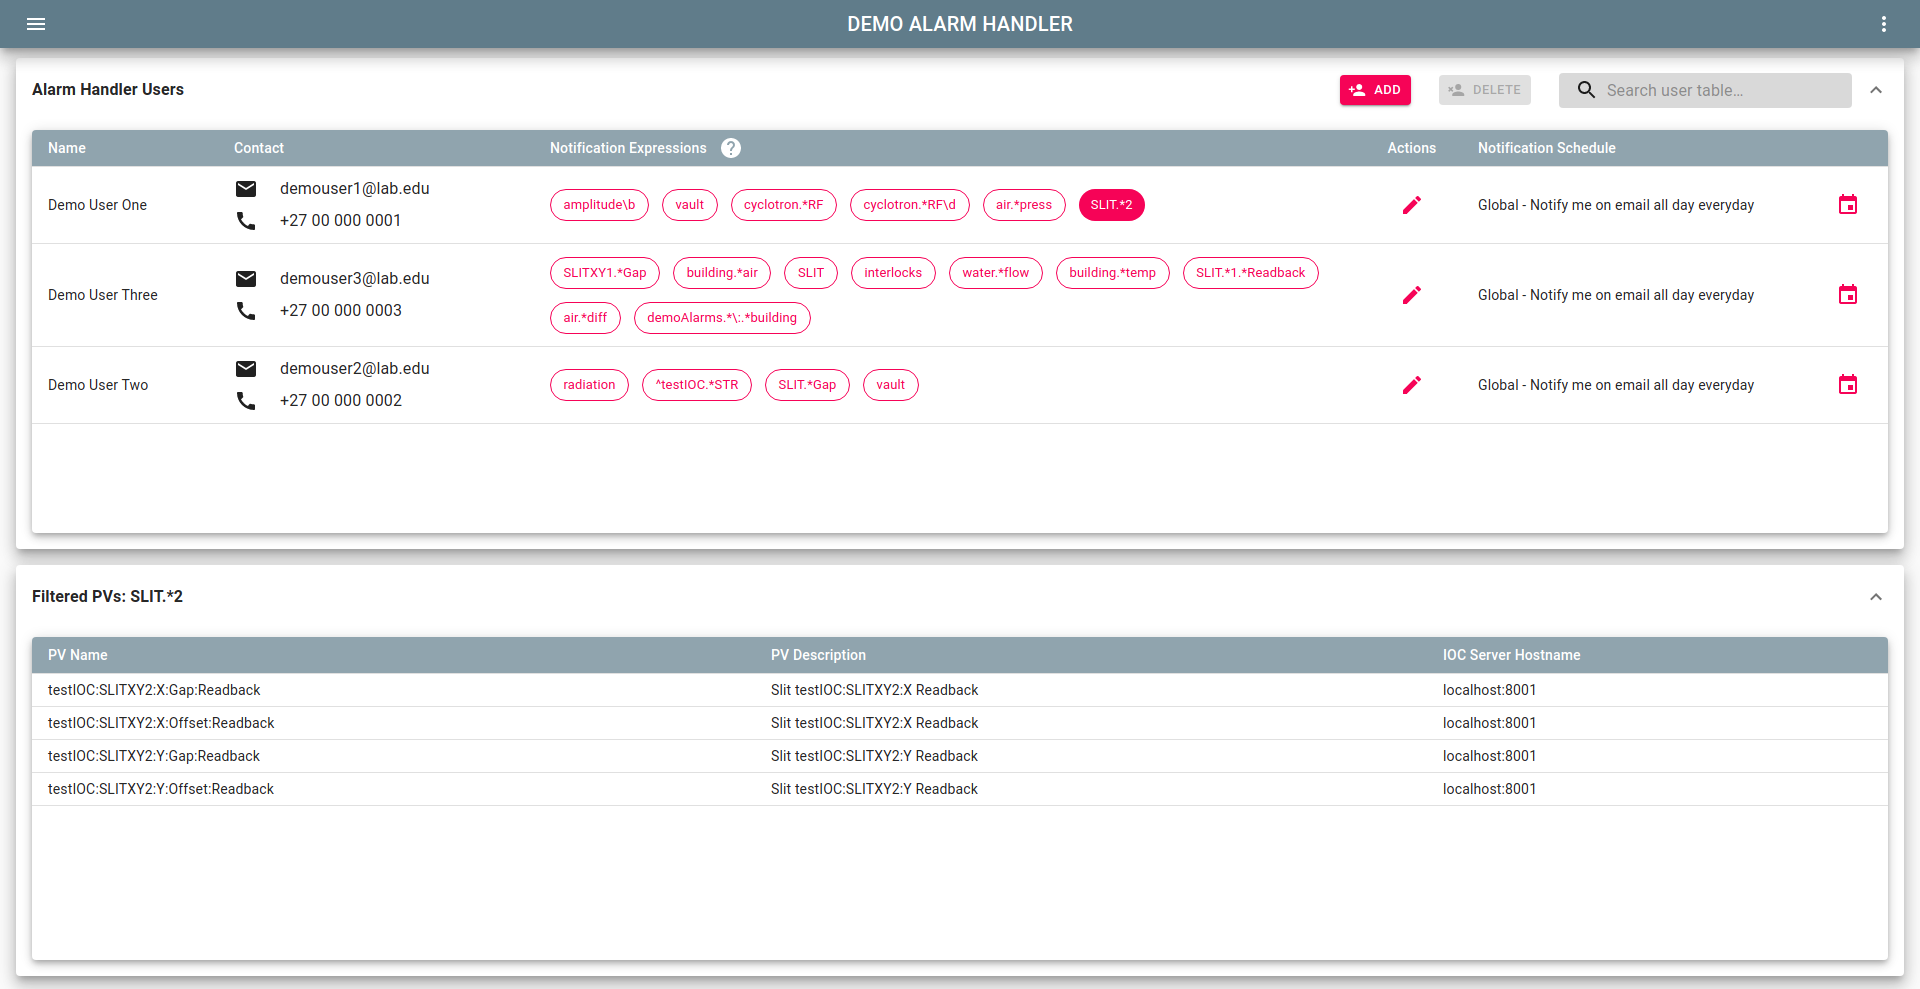
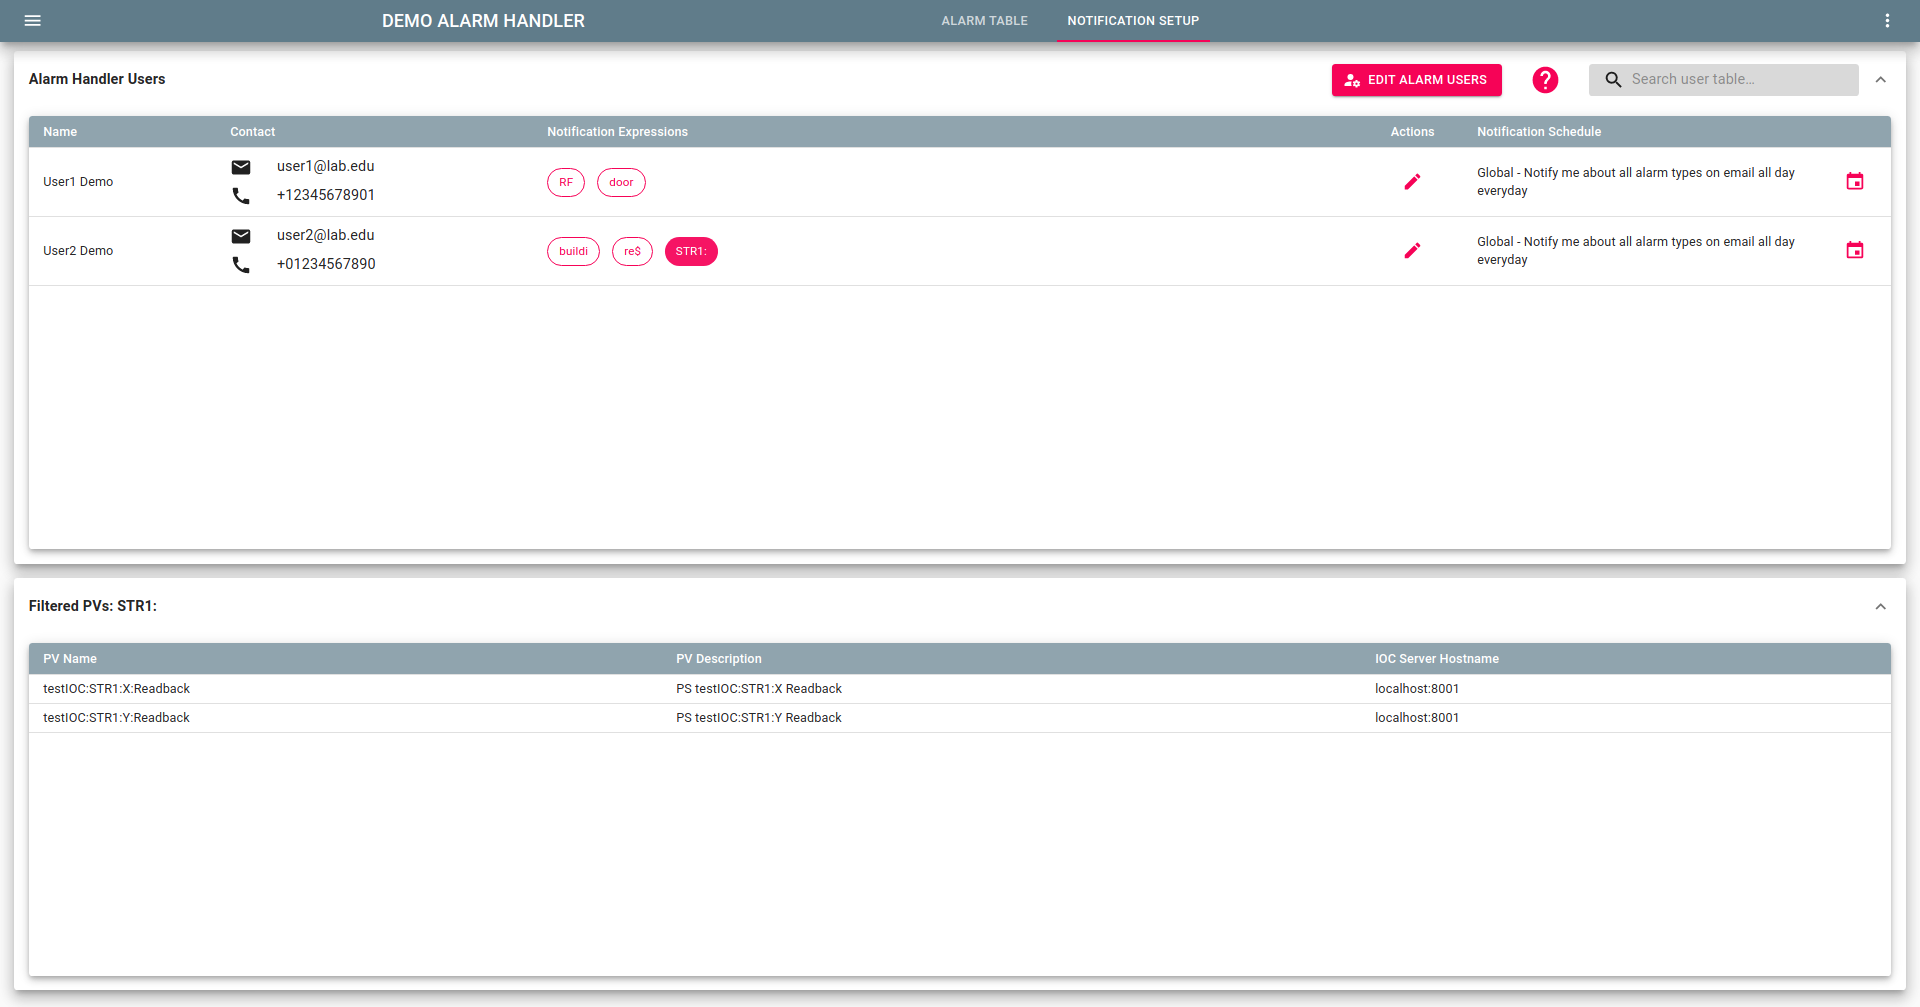
Updates to alarm handler documentation and main readme and intro sections

diff --git a/ReactApp/src/docs/alarmHandler/alarmUserTable.md b/ReactApp/src/docs/alarmHandler/alarmUserTable.md
@@ -7,14 +7,12 @@ The alarm handler users table lists all the users that can be configured to be n
 <br/>
 **Name**
 
-Name of the user - as configured in alarm handler MongoDB database.
+Name of the user - as configured through the user profile.
 
 <br/>
 **Contact**
 
-The contact details on which the user will be notified - as configured in alarm handler MongoDB database.
-
-These details can be updated from the UI as described below in the **Actions** section.
+The contact details on which the user will be notified - as configured through the user profile.
 
 NOTE: The UI will only display the contact details of the currently logged in user. Other users' contact details will be hidden to prevent unnecessary exposure of user info.
 
@@ -31,7 +29,7 @@ The notification expressions can be updated from the UI as described below in th
 
 A user will be notified on alarm events on pvs that match any of the notification expressions of that particular user.
 
-As an example see the screenshot below where the notification expression "SLIT.*2" of "Demo User One" is selected. The filtered pvs list shows the pvs that matches this notification expression. This means "Demo User One" will be notified whenever alarm events occur on any of these pvs. The same applies for all of "Demo User One's" notification expressions.
+As an example see the screenshot below where the notification expression "STR1:" of "User2 Demo" is selected. The filtered pvs list shows the pvs that matches this notification expression. This means "User2 Demo" will be notified whenever alarm events occur on any of these pvs. The same applies for all of "User2 Demo's" notification expressions.
 
 <img src="img/alarmHandler/userNotification_regex_click2.png" alt="userNotification_regex_click" width="100%"/>
 <center>*Example notification expression chip click*</center>
@@ -40,7 +38,7 @@ As an example see the screenshot below where the notification expression "SLIT.*
 <br/>
 **Actions**
 
-The actions column allows a user to edit the contact details and notification expressions of a user by clicking the edit button (*pencil icon* on the right).
+The actions column allows a user to edit the notification expressions of a user by clicking the edit button (*pencil icon* on the right).
 
 NOTE: The UI will only display the edit icon next to the currently logged in user. You will be unable to edit other users' details.
 
@@ -48,15 +46,13 @@ NOTE: You will not be able to edit any user information if you use React Automat
 
 NOTE: A user with alarmAdmin role can edit all users' details.
 
-Once the edit icon has been clicked, the user is presented with the edit user view as shown below (example shown for "Demo User One").
+Once the edit icon has been clicked, the user is presented with the edit user view as shown below (example shown for "User1 Demo").
 
 <img src="img/alarmHandler/userNotification_edit_details.png" alt="userNotification_edit_details" width="100%"/>
 <center>*Editing User One user details*</center>
 <br/><br/>
 
 In edit more, the following actions can be done:
-
-**Edit contact details**: The email and mobile fields can be edited like a regular form input.
 
 **Delete notification expressions**: Notification expressions can be deleted by clicking on the cancel button (*x icon* on top right of chip) of the relevant expression chip.
 
@@ -83,7 +79,7 @@ NOTE: You will not be able to edit any user information if you use React Automat
 
 NOTE: A user with alarmAdmin role can edit all users' details.
 
-Once the calendar icon has been clicked, the user is presented with the notification schedule dialog as shown below (example shown for "Demo User One").
+Once the calendar icon has been clicked, the user is presented with the notification schedule dialog as shown below (example shown for "User1 Demo").
 
 <center>
 <img src="img/alarmHandler/userNotification_notification_dialog.png" alt="userNotification_notification_dialog" width="50%"/>
@@ -99,7 +95,7 @@ If the user chooses a unique schedule for each notification expression, these ex
 
 The notify checkbox sets whether the user must be notified. This can be a global or per notification expression setting.
 
-A user can then set which medium they would like to be notified on. At least one medium one be selected. **Currently the alarm handler can only notify via email. In future we hope to expand this to SMS and WhatsApp.**
+A user can then set which medium they would like to be notified on. At least one medium one be selected. **Currently the alarm handler can notify via email and Signal messenger. In future we hope to expand this to SMS and WhatsApp.**
 
 The `All-day` toggle switch sets whether a user would like to be notified all day or between set time intervals. This can be a global or per notification expression setting.
 
@@ -110,6 +106,19 @@ The `Weekly` and `Date range` settings can to configured for a user to be notifi
 **Cancel changes**: Clicking the `CANCEL` will undo all changes made and **NOT** update the MongoDB alarm database.
 
 <br/>
-**Adding and removing users**
+**ADMINISTRATOR ACTIONS**
 
-An alarmAdmin role user can add and remove users using the `ADD` and `DELETE` buttons above the alarm handler user table.
+An alarmAdmin role user can add or remove alarm users using the `EDIT ALARM USERS` button above the alarm handler user table.
+
+<br/>
+**Admin action - Add or remove alarm users**
+
+To add or remove alarm users click the `EDIT ALARM USERS` button above the alarm handler user table and the dialog below will appear.
+
+<center>
+<img src="img/alarmHandler/userNotification_editusers_dialog.png" alt="userNotification_editusers_dialog" width="100%"/>
+</center>
+<center>*Edit users dialog*</center>
+<br/><br/>
+
+This dialog allows an alarmAdmin to add/remove users from the list of all available RAS users.

diff --git a/README.md b/README.md
@@ -105,9 +105,15 @@ See the documentation in the style guide.
 
 Currently the Alarm Handler component  and LoadSave component make use of the MongoDB database.
 
-*6. AlarmHandler
+*6. AlarmHandler*
 
+As of Release 3.0.0 the RAS AlarmHandler component is considered production ready.
 
+The alarm handler is seeded through JSON files that populate the MongoDB alarm handler database. This database is also used to persist all alarm events and activity logs.
+
+The alarm handler front end UI allows users to configure all aspects of the alarms and search through the entire alarm log. Alarm areas, subAreas and pvs can also be added/removed from the front end by alarmAdmin role users. 
+
+A user notification platform has also been created for the alarm handler. This platform allows a user to target specific pvs to be notified about using javascript regular expressions. At present users can be notified via email and Signal messenger. In future we hope to expand this to SMS and WhatsApp.
 
 *7. Since Release 3.0.0, Nginx serves the static files for ReactApp and the styleguide, it also handles the transport layer security and performs load balancing. Scripts were created to dynamically configure Nginx based on the enviroment variables in Section 3.
 For load balancing, Nginx balances between 3 pvServers in the production versions and 1 in the dev versions.

diff --git a/ReactApp/src/docs/introduction.md b/ReactApp/src/docs/introduction.md
@@ -101,9 +101,15 @@ See the documentation in the style guide.
 
 Currently the Alarm Handler component  and LoadSave component make use of the MongoDB database.
 
-*6. AlarmHandler
+*6. AlarmHandler*
 
+As of Release 3.0.0 the RAS AlarmHandler component is considered production ready.
 
+The alarm handler is seeded through JSON files that populate the MongoDB alarm handler database. This database is also used to persist all alarm events and activity logs.
+
+The alarm handler front end UI allows users to configure all aspects of the alarms and search through the entire alarm log. Alarm areas, subAreas and pvs can also be added/removed from the front end by alarmAdmin role users. 
+
+A user notification platform has also been created for the alarm handler. This platform allows a user to target specific pvs to be notified about using javascript regular expressions. At present users can be notified via email and Signal messenger. In future we hope to expand this to SMS and WhatsApp.
 
 *7. Since Release 3.0.0, Nginx serves the static files for ReactApp and the styleguide, it also handles the transport layer security and performs load balancing. Scripts were created to dynamically configure Nginx based on the enviroment variables in Section 3.
 For load balancing, Nginx balances between 3 pvServers in the production versions and 1 in the dev versions.

diff --git a/ReactApp/src/docs/alarmHandler/alarmHandler.md b/ReactApp/src/docs/alarmHandler/alarmHandler.md
@@ -1,6 +1,6 @@
-This section is a preview of the React Automation Studio based AlarmHandler component. This component is still in development and is not considered production ready. 
+This section is an overview of the React Automation Studio based AlarmHandler component.
 
 **Breaking Change**
 There has a time format change from V2.1.0 to V2.2.0 and you will need to clean the ALARM_DATABASE
 
-Follow the setup and user guides to deploy the AlarmHandler for testing and experimentation.
+Follow the setup and user guides to deploy the AlarmHandler.
